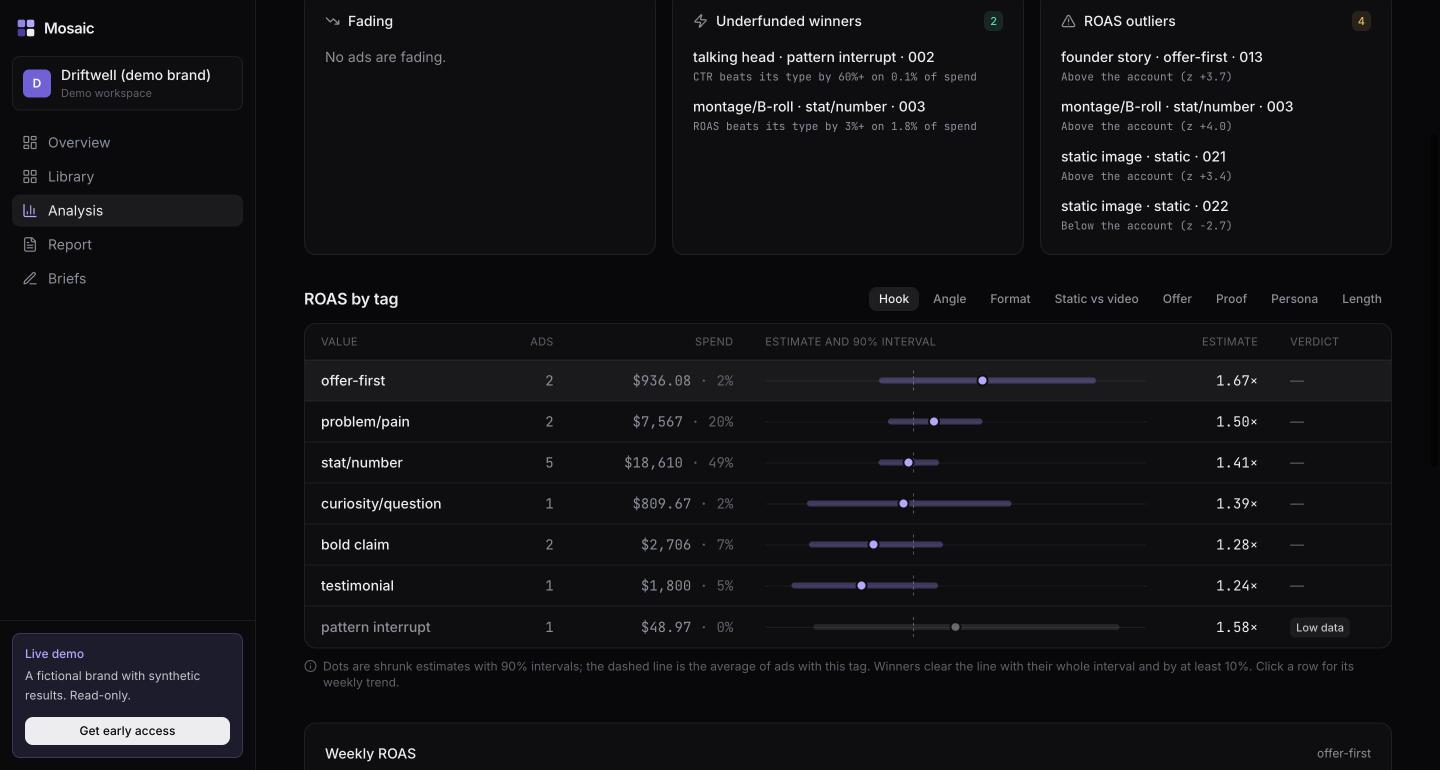
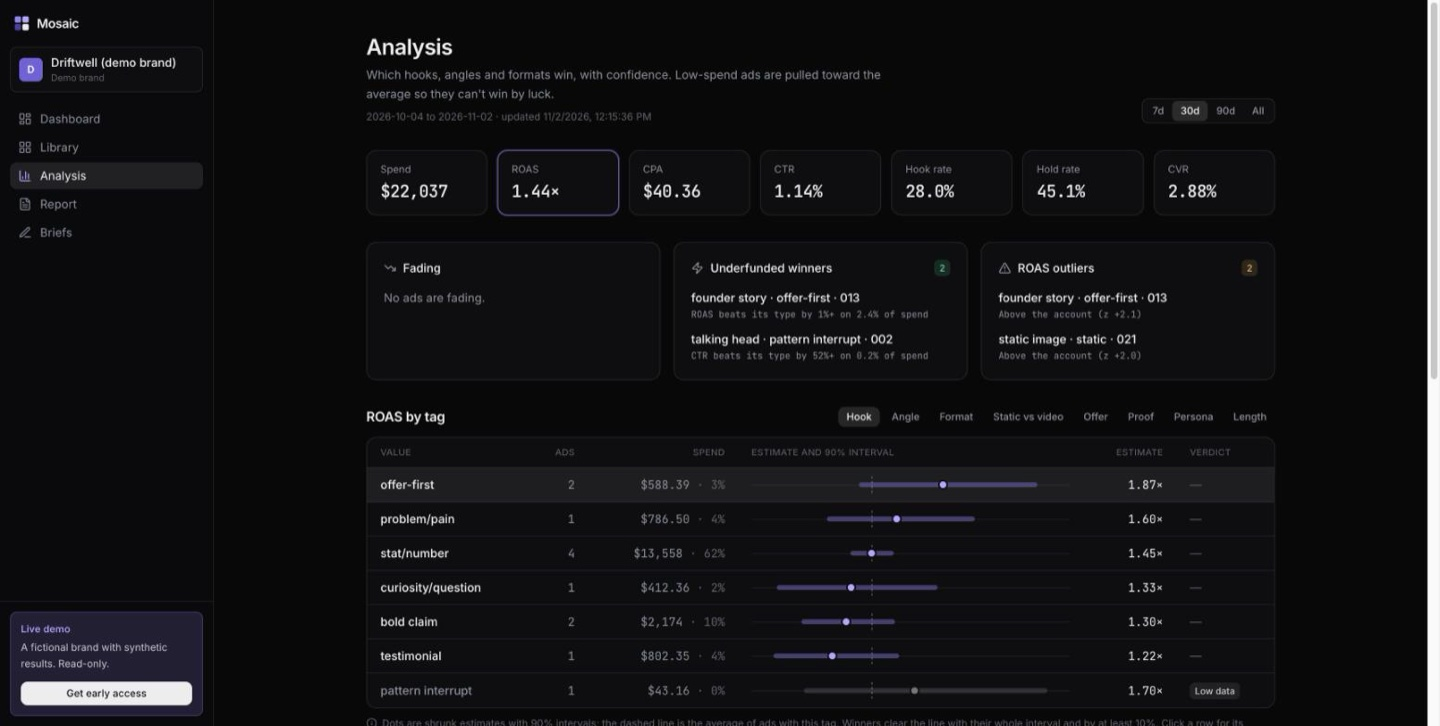
README: new dashboard, scene breakdown and brand memory

diff --git a/README.md b/README.md
@@ -9,7 +9,15 @@ Built as a solo applied-AI project. The target is a deployed, demo-ready MVP by 
 [![CI](https://github.com/carsonturnr/mosaic/actions/workflows/ci.yml/badge.svg)](https://github.com/carsonturnr/mosaic/actions/workflows/ci.yml)
 [![License: MIT](https://img.shields.io/badge/license-MIT-blue.svg)](LICENSE)
 
-![Overview of the demo workspace](docs/images/overview.jpg)
+![Dashboard of the demo brand](docs/images/overview.jpg)
+
+## What you get
+
+- **A dashboard that says what to do.** The account's most reliable winner, with each metric against the account average; this week's moves (scale, cut, test) from the latest report; and plain facts about where the money goes ("68% of spend on talking head", "5.3 real concepts").
+- **Every ad broken down.** Hook, angle, persona, format, offer, proof and CTA for video and static, plus a scene-by-scene timeline where the first 3 seconds are their own scene.
+- **Rankings you can trust.** Tags ranked by ROAS, CPA, CTR, hook rate and more, with 90% intervals, so a lucky low-spend ad can't top the table.
+- **A strategist report and briefs.** Written by Claude from the analysis, with every number checked against the database before it's saved. "Make variations" turns the winning ad into a brief.
+- **Brand memory from a link.** Paste the brand's website and Mosaic drafts its product, audience, voice and claims to avoid for briefs to follow. When a site blocks automated reads, it falls back to web research.
 
 ## How it works
 
@@ -34,9 +42,11 @@ flowchart LR
 3. **Analyze.** Tag values are ranked by KPI with empirical-Bayes shrinkage, so a low-spend ad can't win by luck. The analysis also covers static vs. video, weekly trends, robust-z outliers within peer groups, fading ads, and underfunded winners. Near-duplicate ads are clustered into concepts, and the spend-weighted diversity score says how many real ideas the account is running.
 4. **Explain.** A strategist agent and a brief generator (Claude) call typed, read-only tools over the analytics layer. Every claim has to cite ad IDs and metric values. A grounding validator checks each cited number against the database before anything is saved.
 
-| Library | Analysis | Report |
+| Ad breakdown | Analysis | Report |
 | --- | --- | --- |
-| ![Creative library](docs/images/library.jpg) | ![Tag rankings with intervals](docs/images/analysis.jpg) | ![Strategist report with checked citations](docs/images/report.jpg) |
+| ![Tags and scene timeline for one ad](docs/images/breakdown.jpg) | ![Tag rankings with intervals](docs/images/analysis.jpg) | ![Strategist report with checked citations](docs/images/report.jpg) |
+
+Screenshots are from the public demo: Driftwell is a fictional brand, its results are synthetic, and its videos' scene breakdowns are written from their tags because there is no real footage.
 
 ## Results
 
